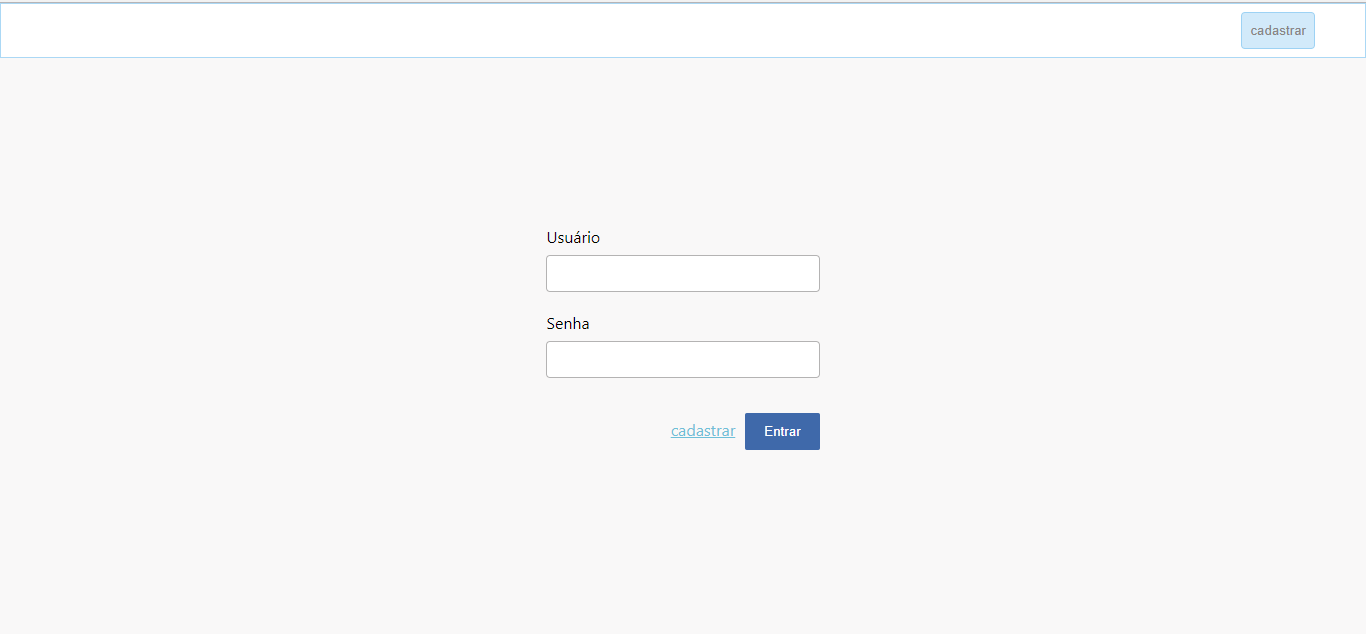
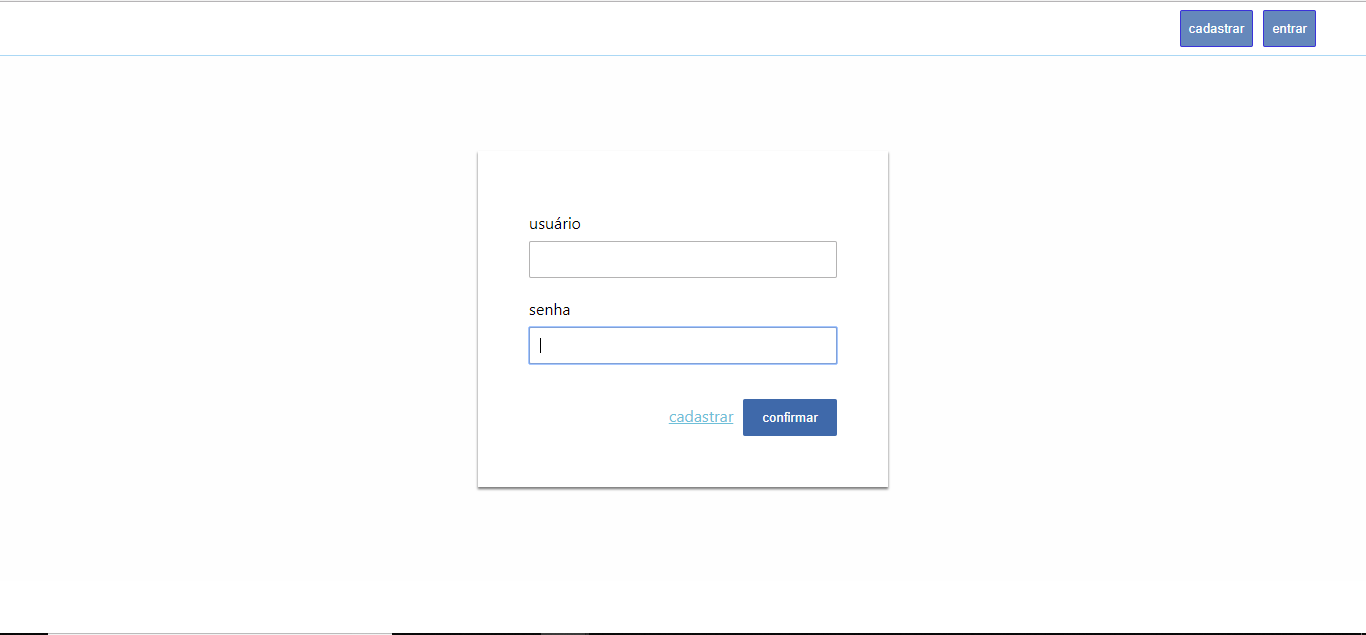
refactored signin item

diff --git a/items/development plant/login/signin/signin.html b/items/development plant/login/signin/signin.html
@@ -9,10 +9,9 @@
       rel="stylesheet">
  <title>Document</title>
  <style>
-  .header {
-    border: 1px solid rgba(133, 198, 241, 0.692);
+  .header { 
+    border-bottom: 1px solid rgba(133, 198, 241, 0.692);
     line-height: 1;
-    background-color: rgb(255, 255, 255);
     padding: 8px 0px;
     display: flex;
     flex-direction: row;
@@ -22,39 +21,56 @@
     align-self: flex-end;
     display: flex;
     flex-direction: row;
+    margin-right: 50px;
+    justify-content: space-between;
   }
   .actions-nav button {
-    align-self: flex-start;
-    margin-right: 50px;
     padding: 10px 8px;
-    border: 1px solid rgba(133, 198, 241, 0.692);
-    background-color: rgba(133, 198, 241, 0.37);
-    border-radius: 4px;
-    color: rgb(136, 133, 133);
+    border: 1px solid #3A32D9;
+    background-color: rgba(63, 106, 170, 0.801);
+    border-radius: 2px;
+    color: white;
     font-weight: 400;
     cursor: pointer;
   }
+  .entry {
+    margin-right: 10px;
+  }
   body {
    font-family: -apple-system,BlinkMacSystemFont,"Segoe UI",Helvetica,Arial,sans-serif,"Apple Color Emoji","Segoe UI Emoji","Segoe UI Symbol";
-   background-color: rgba(221, 220, 220, 0.171);
    font-size: 100%;
    margin: 0;
   }
   .container-login {
+   background-color: rgba(0,0,0,0.005);
    display: flex;
    flex-direction: row;
    justify-content: center;
-   padding: calc(50vh/2) 0;
+   padding: calc(30vh/2) 0;
    width: 100%;
   }
   .form-login {
    display: flex;
    flex-direction: column;
    align-content: space-around;
+   background-color: white;
    box-sizing: border-box;
-   width: 20%;
+   width: 30%;
+   border: 1px solid transparent;
+   padding: 50px;
+   box-shadow: 0px 2px 2px 0px rgba(0,0,0,0.5)
+  }
+  [class*="form-row"] {
+   display: flex;
+   flex-flow: row wrap;
+   justify-content: space-between;
+   width: 100%;
+  }
+  .form-row .actions {
+   align-self: flex-end;
   }
   .actions {
+   width: 100%;
    margin-top: 25px;
    display: flex;
    flex-direction: row;
@@ -65,10 +81,14 @@
    display: flex;
    flex-direction: column;
    margin: 10px 0;
+   width: 50%;
+  }
+  .input-label {
+   width: 100%;
   }
   input {
    border: 1px solid rgb(180, 179, 179);
-   border-radius: 4px;
+   border-radius: 2px;
    padding: 10px 10px;
   }
   label {
@@ -83,7 +103,7 @@
    border-radius: 2px;
    cursor: pointer;
   }
-  .signup {
+  .signin {
    color: rgb(111, 191, 216);
    margin-right: 10px;
   }
@@ -92,22 +112,29 @@
 <body>
   <nav class="header">
    <div class="actions-nav">
-    <button>cadastrar</button>
+    <button class="entry">cadastrar</button>
+    <button>entrar</button>
    </div>
   </nav>
  <div class="container-login" id="login">
   <form class="form-login" method="post">
-   <div class="input-label">
-    <label for="username">Usuário</label>
-    <input type="text" name="username" id="username"/>
+   <div class="form-row-name">
+     <div class="input-label">
+       <label for="username">usuário</label>
+       <input type="text" name="username" id="username"/>
+      </div>
    </div>
-   <div class="input-label">
-    <label for="password">Senha</label>
-    <input type="password" name="password" id="password"/>
+   <div class="form-row-password">
+    <div class="input-label">
+      <label for="password">senha</label>
+      <input type="password" name="password" id="password"/>
+     </div>
    </div>
-   <div class="actions">
-    <a href="" class="signup">cadastrar</a>
-    <button type="submit">Entrar</button>
+   <div class="form-row">
+    <div class="actions">
+      <a href="" class="signin">cadastrar</a>
+      <button type="submit">confirmar</button>
+     </div>
    </div>
   </form>
  </div>
